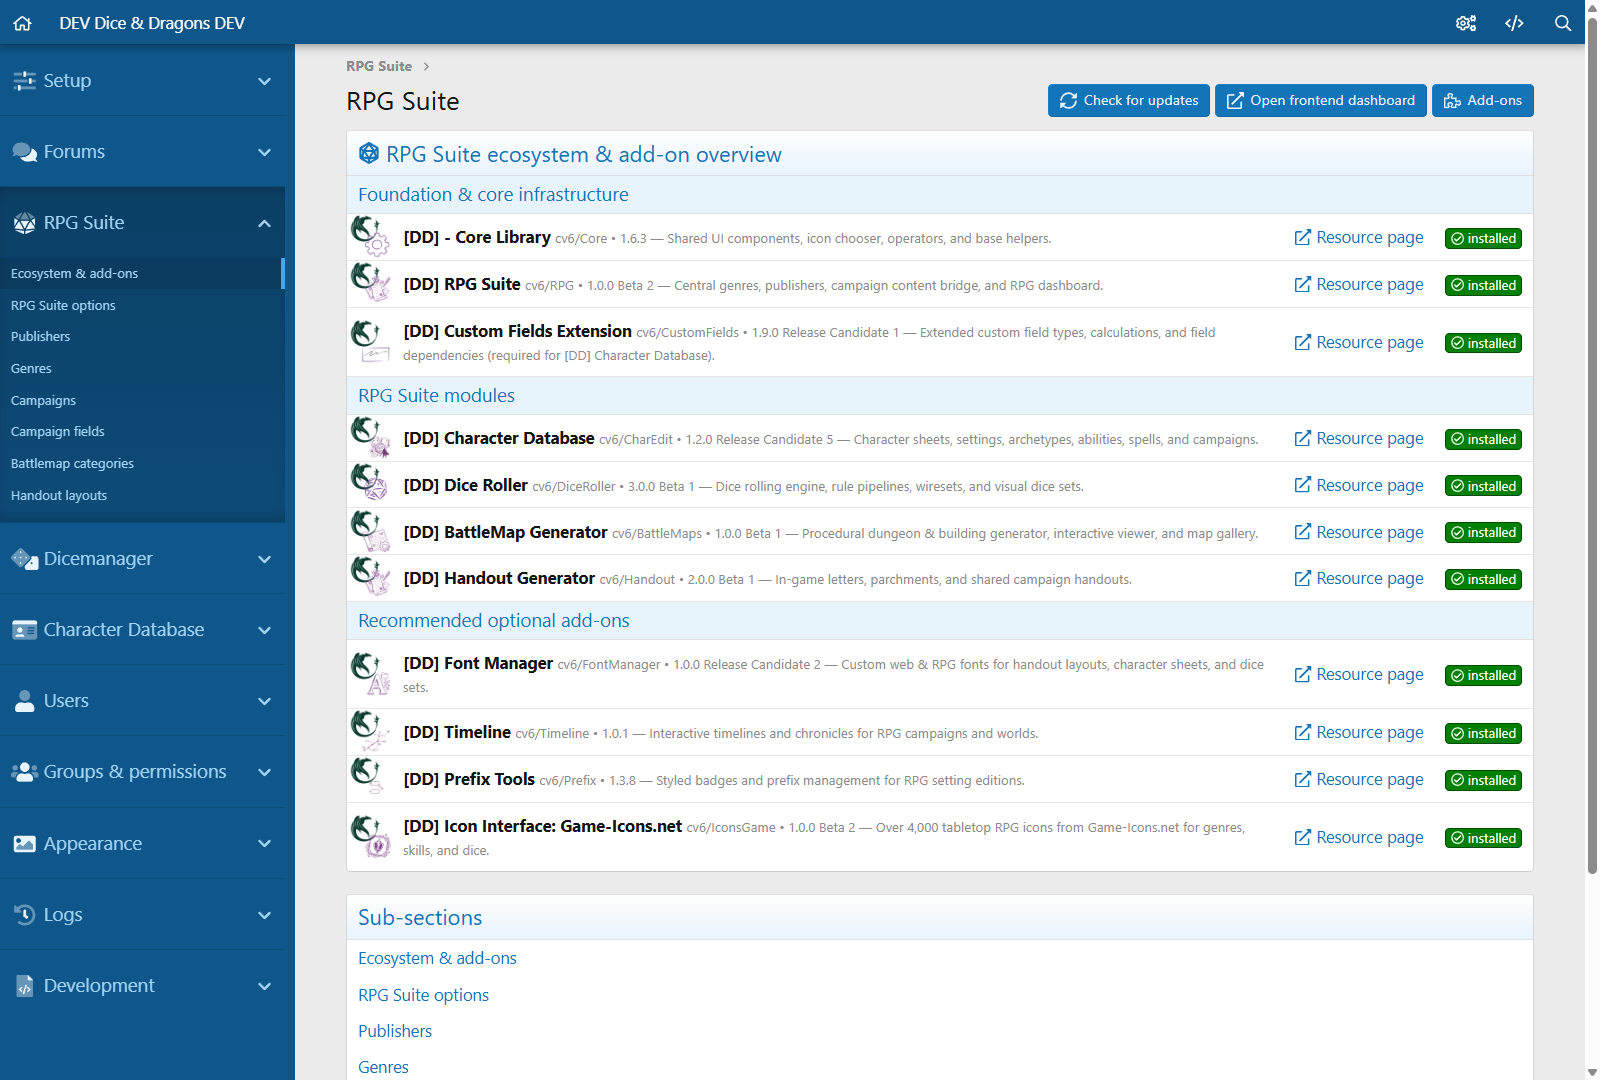
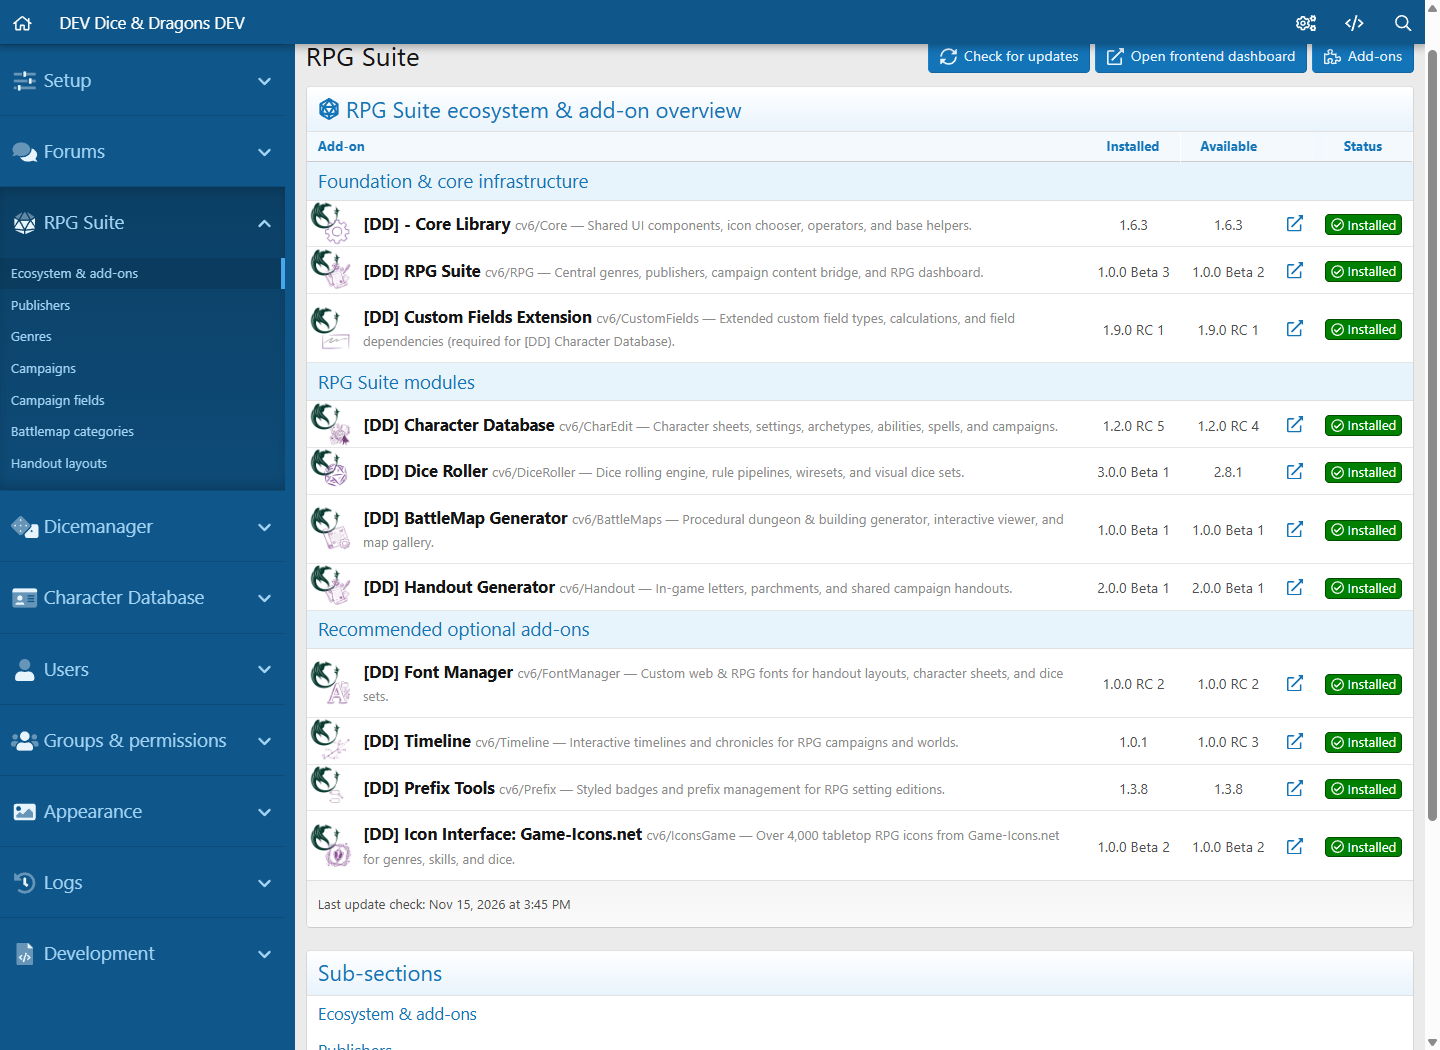
chore(release): release v1.0.0 Beta 3

diff --git a/_output/templates/admin/cv6_rpg_manager.html b/_output/templates/admin/cv6_rpg_manager.html
@@ -20,19 +20,21 @@
 		</h2>
 		<div class="block-body">
 			<xf:datalist data-xf-init="responsive-data-list">
+				<thead>
+					<xf:datarow rowtype="header">
+						<xf:cell colspan="2">{{ phrase('add_on') }}</xf:cell>
+						<xf:cell class="dataList-cell--min">{{ phrase('cv6_rpg_installed') }}</xf:cell>
+						<xf:cell class="dataList-cell--min">{{ phrase('cv6_rpg_available') }}</xf:cell>
+						<xf:cell class="dataList-cell--min"></xf:cell>
+						<xf:cell class="dataList-cell--min">{{ phrase('status') }}</xf:cell>
+					</xf:datarow>
+				</thead>
 				<xf:foreach loop="$addonGroups" key="$groupKey" value="$group">
 					<tbody class="dataList-rowGroup">
 						<xf:datarow rowtype="subsection" rowclass="dataList-row--noHover">
-							<xf:cell colspan="4">{{ phrase_dynamic($group.title_phrase) }}</xf:cell>
+							<xf:cell colspan="6">{{ phrase_dynamic($group.title_phrase) }}</xf:cell>
 						</xf:datarow>
 						<xf:foreach loop="$group.items" key="$addOnId" value="$item">
-							<xf:if is="$item.version_string">
-								<xf:set var="$versionText" value="{$item.version_string}" />
-							<xf:elseif is="$item.remote_version_string" />
-								<xf:set var="$versionText">{{ phrase('cv6_rpg_latest_version_x', {'version': $item.remote_version_string}) }}</xf:set>
-							<xf:else />
-								<xf:set var="$versionText" value="" />
-							</xf:if>
 							<xf:datarow>
 								<xf:if is="$item.addOn && $item.addOn.hasIcon()">
 									<xf:cell class="dataList-cell--min dataList-cell--image dataList-cell--imageSmall{{ !$item.is_active ? ' cv6-rpg-addonIcon--inactive' : '' }}">
@@ -49,36 +51,67 @@
 								</xf:if>
 								<xf:main
 									label="{$item.title}"
-									hint="{$item.addon_id}{{ $versionText ? ' • ' . $versionText : '' }} — {{ phrase_dynamic($item.desc_phrase) }}" />
+									hint="{$item.addon_id} — {{ phrase_dynamic($item.desc_phrase) }}" />
+								<xf:cell class="dataList-cell--min">
+									<xf:if is="$item.version_string">
+										<span class="cv6-rpg-version">{$item.version_string}</span>
+									<xf:else />
+										<span class="u-muted">&mdash;</span>
+									</xf:if>
+								</xf:cell>
+								<xf:cell class="dataList-cell--min">
+									<xf:if is="$item.remote_version_string">
+										<span class="cv6-rpg-version{{ $item.is_update_available ? ' cv6-rpg-version--update' : '' }}">
+											{$item.remote_version_string}
+										</span>
+									<xf:else />
+										<span class="u-muted">&mdash;</span>
+									</xf:if>
+								</xf:cell>
 								<xf:cell class="dataList-cell--min">
 									<xf:if is="$item.resource_url">
-										<a href="{$item.resource_url}" target="_blank" rel="noopener">
-											<xf:fa icon="fa-external-link-alt" /> {{ phrase('cv6_rpg_resource_page') }}
+										<a href="{$item.resource_url}"
+											target="_blank"
+											rel="noopener"
+											data-xf-init="tooltip"
+											title="{{ phrase('cv6_rpg_resource_page')|for_attr }}"
+											aria-label="{{ phrase('cv6_rpg_resource_page')|for_attr }}">
+											<xf:fa icon="fa-external-link-alt" />
 										</a>
 									</xf:if>
 								</xf:cell>
 								<xf:cell class="dataList-cell--min">
-									<xf:if is="$item.is_update_available">
+									<xf:if is="$item.addOn && $item.addOn.canUpgrade()">
+										<a href="{{ link('add-ons/upgrade', $item.addOn) }}"
+											data-xf-click="overlay"
+											data-cache="0"
+											class="label label--orange cv6-rpg-statusAction"
+											data-xf-init="tooltip"
+											title="{{ phrase('upgrade')|for_attr }}">
+											<xf:fa icon="fa-arrow-circle-up" /> {{ phrase('upgrade') }}
+										</a>
+									<xf:elseif is="$item.is_installed && $item.is_update_available" />
 										<a href="{$item.resource_url}"
 											target="_blank"
 											rel="noopener"
-											class="label label--warning cv6-rpg-statusAction">
-											<xf:fa icon="fa-arrow-circle-up" /> {{ phrase('cv6_rpg_update_available_x', {'version': $item.remote_version_string}) }}
+											class="label label--orange cv6-rpg-statusAction"
+											data-xf-init="tooltip"
+											title="{{ phrase('cv6_rpg_update_available_x', {'version': $item.remote_version_string})|for_attr }}">
+											<xf:fa icon="fa-arrow-circle-up" /> {{ phrase('cv6_rpg_update_available') }}
 										</a>
-									</xf:if>
-									<xf:if is="$item.is_active && $item.is_up_to_date">
+									<xf:elseif is="$item.is_active && $item.is_up_to_date" />
 										<span class="label label--green"
 											data-xf-init="tooltip"
 											title="{{ phrase('cv6_rpg_up_to_date')|for_attr }}">
-											<xf:fa icon="fa-check-circle" /> {{ phrase('installed') }}
+											<xf:fa icon="fa-check-circle" /> {{ phrase('cv6_rpg_installed') }}
 										</span>
 									<xf:elseif is="$item.is_active" />
 										<span class="label label--primary">
-											<xf:fa icon="fa-check-circle" /> {{ phrase('installed') }}
+											<xf:fa icon="fa-check-circle" /> {{ phrase('cv6_rpg_installed') }}
 										</span>
 									<xf:elseif is="$item.is_installed" />
 										<a href="{{ link('rpg/manager/toggle', null, {'addon_id': $item.addon_id, 't': csrf_token()}) }}"
-											class="label label--warning cv6-rpg-statusAction"
+											class="label label--orange cv6-rpg-statusAction"
 											data-xf-init="tooltip"
 											title="{{ phrase('enable')|for_attr }}">
 											<xf:fa icon="fa-pause-circle" /> {{ phrase('disabled') }} &bull; {{ phrase('enable') }}
@@ -90,11 +123,11 @@
 											class="label label--accent cv6-rpg-statusAction"
 											data-xf-init="tooltip"
 											title="{{ phrase('install')|for_attr }}">
-											<xf:fa icon="fa-box-open" /> {{ phrase('installable') }} &bull; {{ phrase('install') }}
+											<xf:fa icon="fa-box-open" /> {{ phrase('cv6_rpg_installable') }} &bull; {{ phrase('install') }}
 										</a>
 									<xf:elseif is="$item.is_available_on_disk" />
 										<span class="label label--accent">
-											<xf:fa icon="fa-box-open" /> {{ phrase('installable') }}
+											<xf:fa icon="fa-box-open" /> {{ phrase('cv6_rpg_installable') }}
 										</span>
 									<xf:else />
 										<span class="label label--subtle">
@@ -108,6 +141,13 @@
 				</xf:foreach>
 			</xf:datalist>
 		</div>
+		<xf:if is="$lastVersionCheck">
+			<div class="block-footer">
+				<span class="block-footer-counter">
+					{{ phrase('cv6_rpg_last_update_check_x', {'time': date_time($lastVersionCheck)}) }}
+				</span>
+			</div>
+		</xf:if>
 	</div>
 </div>
 

diff --git a/_output/templates/admin/cv6_rpg_admin.less b/_output/templates/admin/cv6_rpg_admin.less
@@ -18,3 +18,15 @@ a.cv6-rpg-statusAction
 		filter: brightness(1.08);
 	}
 }
+
+.cv6-rpg-version
+{
+	font-size: @xf-fontSizeSmall;
+	color: @xf-textColorDimmed;
+
+	&--update
+	{
+		color: @xf-textColorAttention;
+		font-weight: @xf-fontWeightHeavy;
+	}
+}

diff --git a/Admin/Controller/ManagerController.php b/Admin/Controller/ManagerController.php
@@ -132,15 +132,19 @@ class ManagerController extends AbstractController
 					: ($addOnObj ? (string)$addOnObj->title : $meta['default_title']);
 
 				$versionString = $installedEntity
-					? (string)$installedEntity->version_string
-					: ($addOnObj ? (string)$addOnObj->version_string : '');
+					? $this->formatVersionString((string)$installedEntity->version_string)
+					: '';
 				$installedVersionId = $installedEntity
 					? (int)$installedEntity->version_id
-					: ($addOnObj ? (int)$addOnObj->version_id : 0);
+					: 0;
 
 				$remote = is_array($remoteData[$addOnId] ?? null) ? $remoteData[$addOnId] : null;
 				$remoteVersionId = $remote ? (int)($remote['version_id'] ?? 0) : 0;
-				$remoteVersionString = $remote ? (string)($remote['version_string'] ?? '') : '';
+				$remoteVersionString = $this->formatVersionString(
+					$remote
+						? (string)($remote['version_string'] ?? '')
+						: ($addOnObj ? (string)$addOnObj->version_string : '')
+				);
 
 				$resourceUrl = $this->resolveResourceUrl(
 					$addOnObj ? (string)($addOnObj->faq_url ?? '') : '',
@@ -181,6 +185,20 @@ class ManagerController extends AbstractController
 			'addonGroups' => $addonGroups,
 			'lastVersionCheck' => (int)($remoteInfo['fetched_at'] ?? 0),
 		]);
+	}
+
+	/**
+	 * Formats a version string concisely for AdminCP tables (e.g. "Release Candidate" -> "RC").
+	 */
+	protected function formatVersionString(string $version): string
+	{
+		$version = trim($version);
+		if ($version === '')
+		{
+			return '';
+		}
+
+		return (string)preg_replace('/\bRelease\s+Candidate\b/i', 'RC', $version);
 	}
 
 	/**

diff --git a/README.md b/README.md
@@ -1,7 +1,7 @@
 # [DD] RPG Suite
 *This documentation is also available in: [Deutsch](README.de.md)*
 
-![Version](https://img.shields.io/badge/version-1.0.0_Beta_2-blue.svg) ![XenForo](https://img.shields.io/badge/XenForo-2.3%2B-orange.svg) ![PHP](https://img.shields.io/badge/PHP-8.2%2B-qt.svg) ![Edition](https://img.shields.io/badge/Edition-RPG%20Suite%20(Free)-success.svg)
+![Version](https://img.shields.io/badge/version-1.0.0_Beta_3-blue.svg) ![XenForo](https://img.shields.io/badge/XenForo-2.3%2B-orange.svg) ![PHP](https://img.shields.io/badge/PHP-8.2%2B-qt.svg) ![Edition](https://img.shields.io/badge/Edition-RPG%20Suite%20(Free)-success.svg)
 
 Core RPG domain platform (Genres, Publishers, Dashboard) and modular integration bridge connecting **[DD] Character Database**, **[DD] Dice Roller**, **[DD] BattleMap Generator**, and **[DD] Handout Generator**. *(Free core foundation of the **[DD] RPG Suite**.)*
 
@@ -19,4 +19,4 @@ Core RPG domain platform (Genres, Publishers, Dashboard) and modular integration
 * Optional [Icon Interfaces](https://forum.dice-dragons.de/downloads/categories/icon-interfaces.61/) (such as `[DD] Icon: Game-Icons`) for extended RPG genre icons
 
 ## Configuration / Usage
-Configure RPG Suite options, Genres, Publishers, and inspect module status in the AdminCP under **RPG Suite**. A German language pack is included in `_output/language/lang-cv6-RPG-de-de.xml` (`language/RPG-1000032-de.xml`).
+Configure RPG Suite options, Genres, Publishers, and inspect module status in the AdminCP under **RPG Suite**. A German language pack is included in `_output/language/lang-cv6-RPG-de-de.xml` (`language/RPG-1000033-de.xml`).

diff --git a/CHANGELOG.md b/CHANGELOG.md
@@ -2,6 +2,12 @@
 
 All notable changes to **[DD] RPG Suite** (`cv6/RPG`) are documented in this file.
 
+## [1.0.0 Beta 3] - 2026-11-15
+
+### Changed
+- Redesigned the AdminCP RPG Suite Ecosystem & Add-on Overview (`admin.php?rpg/manager`) with dedicated `Installed` and `Available` version columns, concise `RC` version abbreviations, compact icon-only Resource links, unified status badges, and a block footer showing the last update check timestamp.
+- Removed the redundant `RPG Suite options` link from the AdminCP side navigation.
+
 ## [1.0.0 Beta 2] - 2026-11-15
 
 ### Added

diff --git a/_openspec/spec.md b/_openspec/spec.md
@@ -3,7 +3,7 @@
 ## 1. Metadata & Architecture
 - **Add-on ID**: `cv6/RPG`
 - **Title**: `[DD] RPG Suite`
-- **Version**: `1.0.0 Beta 2` (`1000032`)
+- **Version**: `1.0.0 Beta 3` (`1000033`)
 - **Public Route**: `rpg/`
 - **Admin Routes**: `rpg/manager`, `rpg/genre`, `rpg/publisher`
 - **CLI Prefix**: `dd-rpg:*` (`dd-rpg:sync-schema`)
